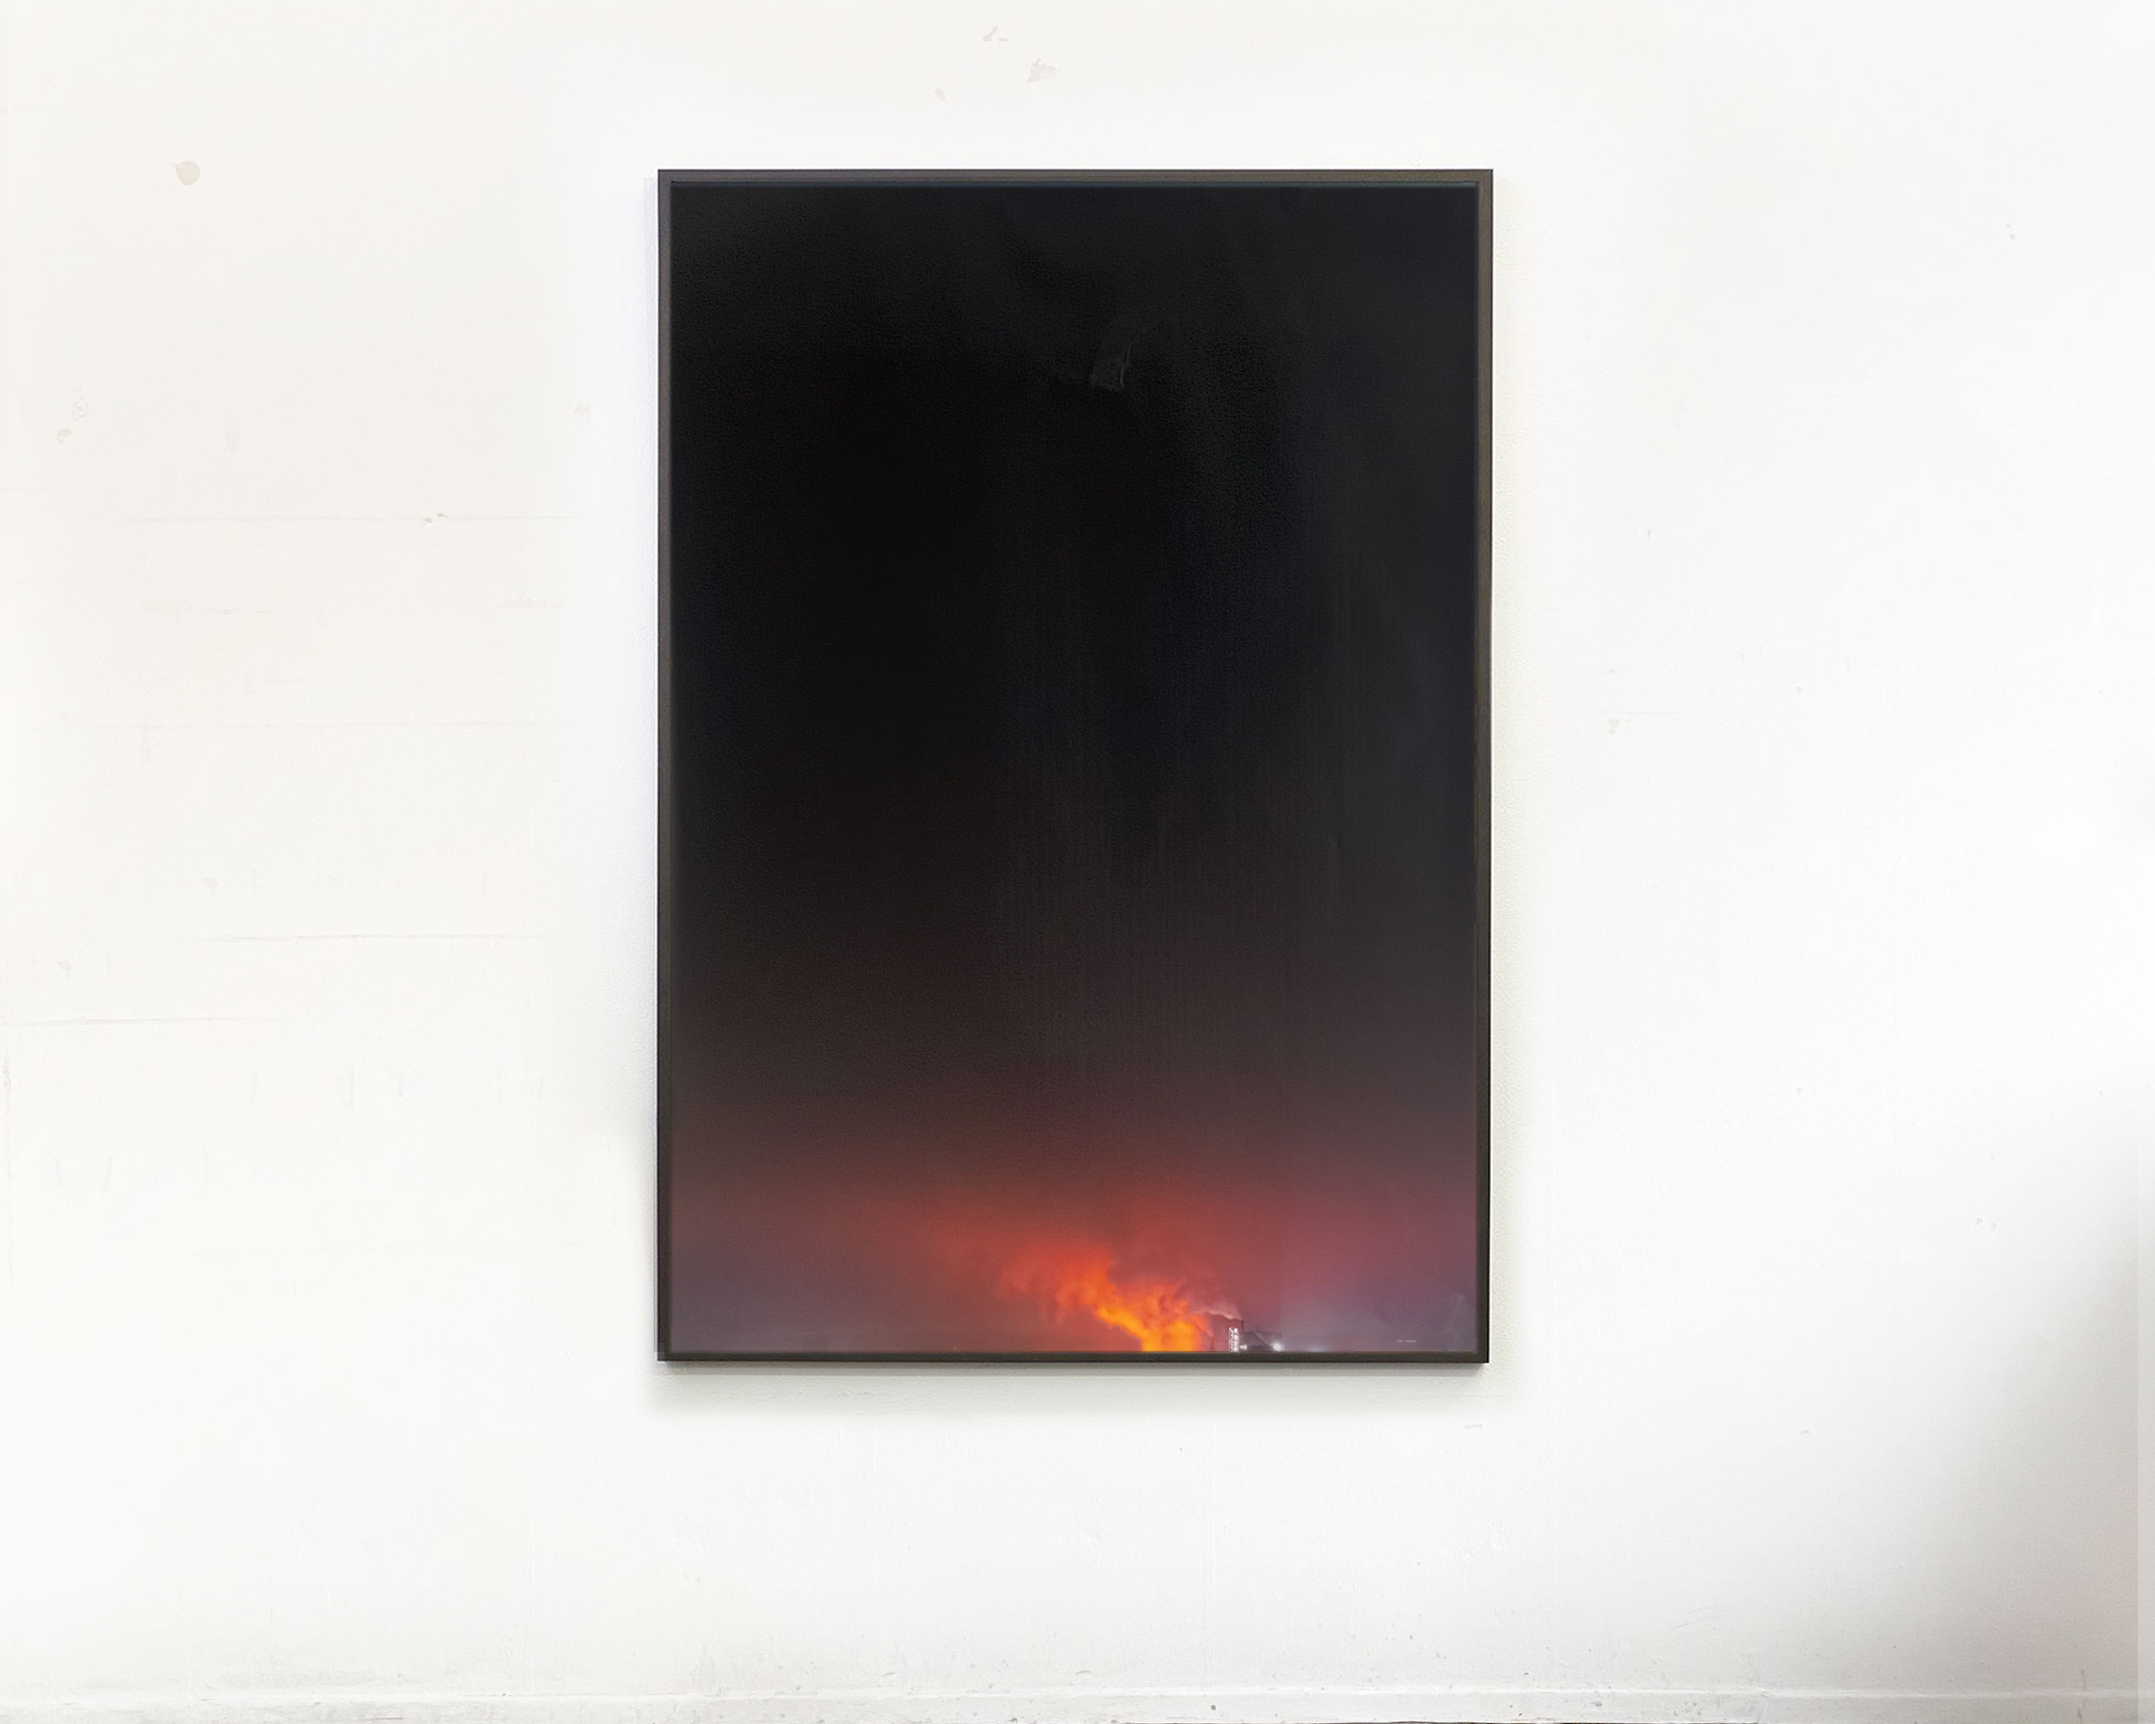
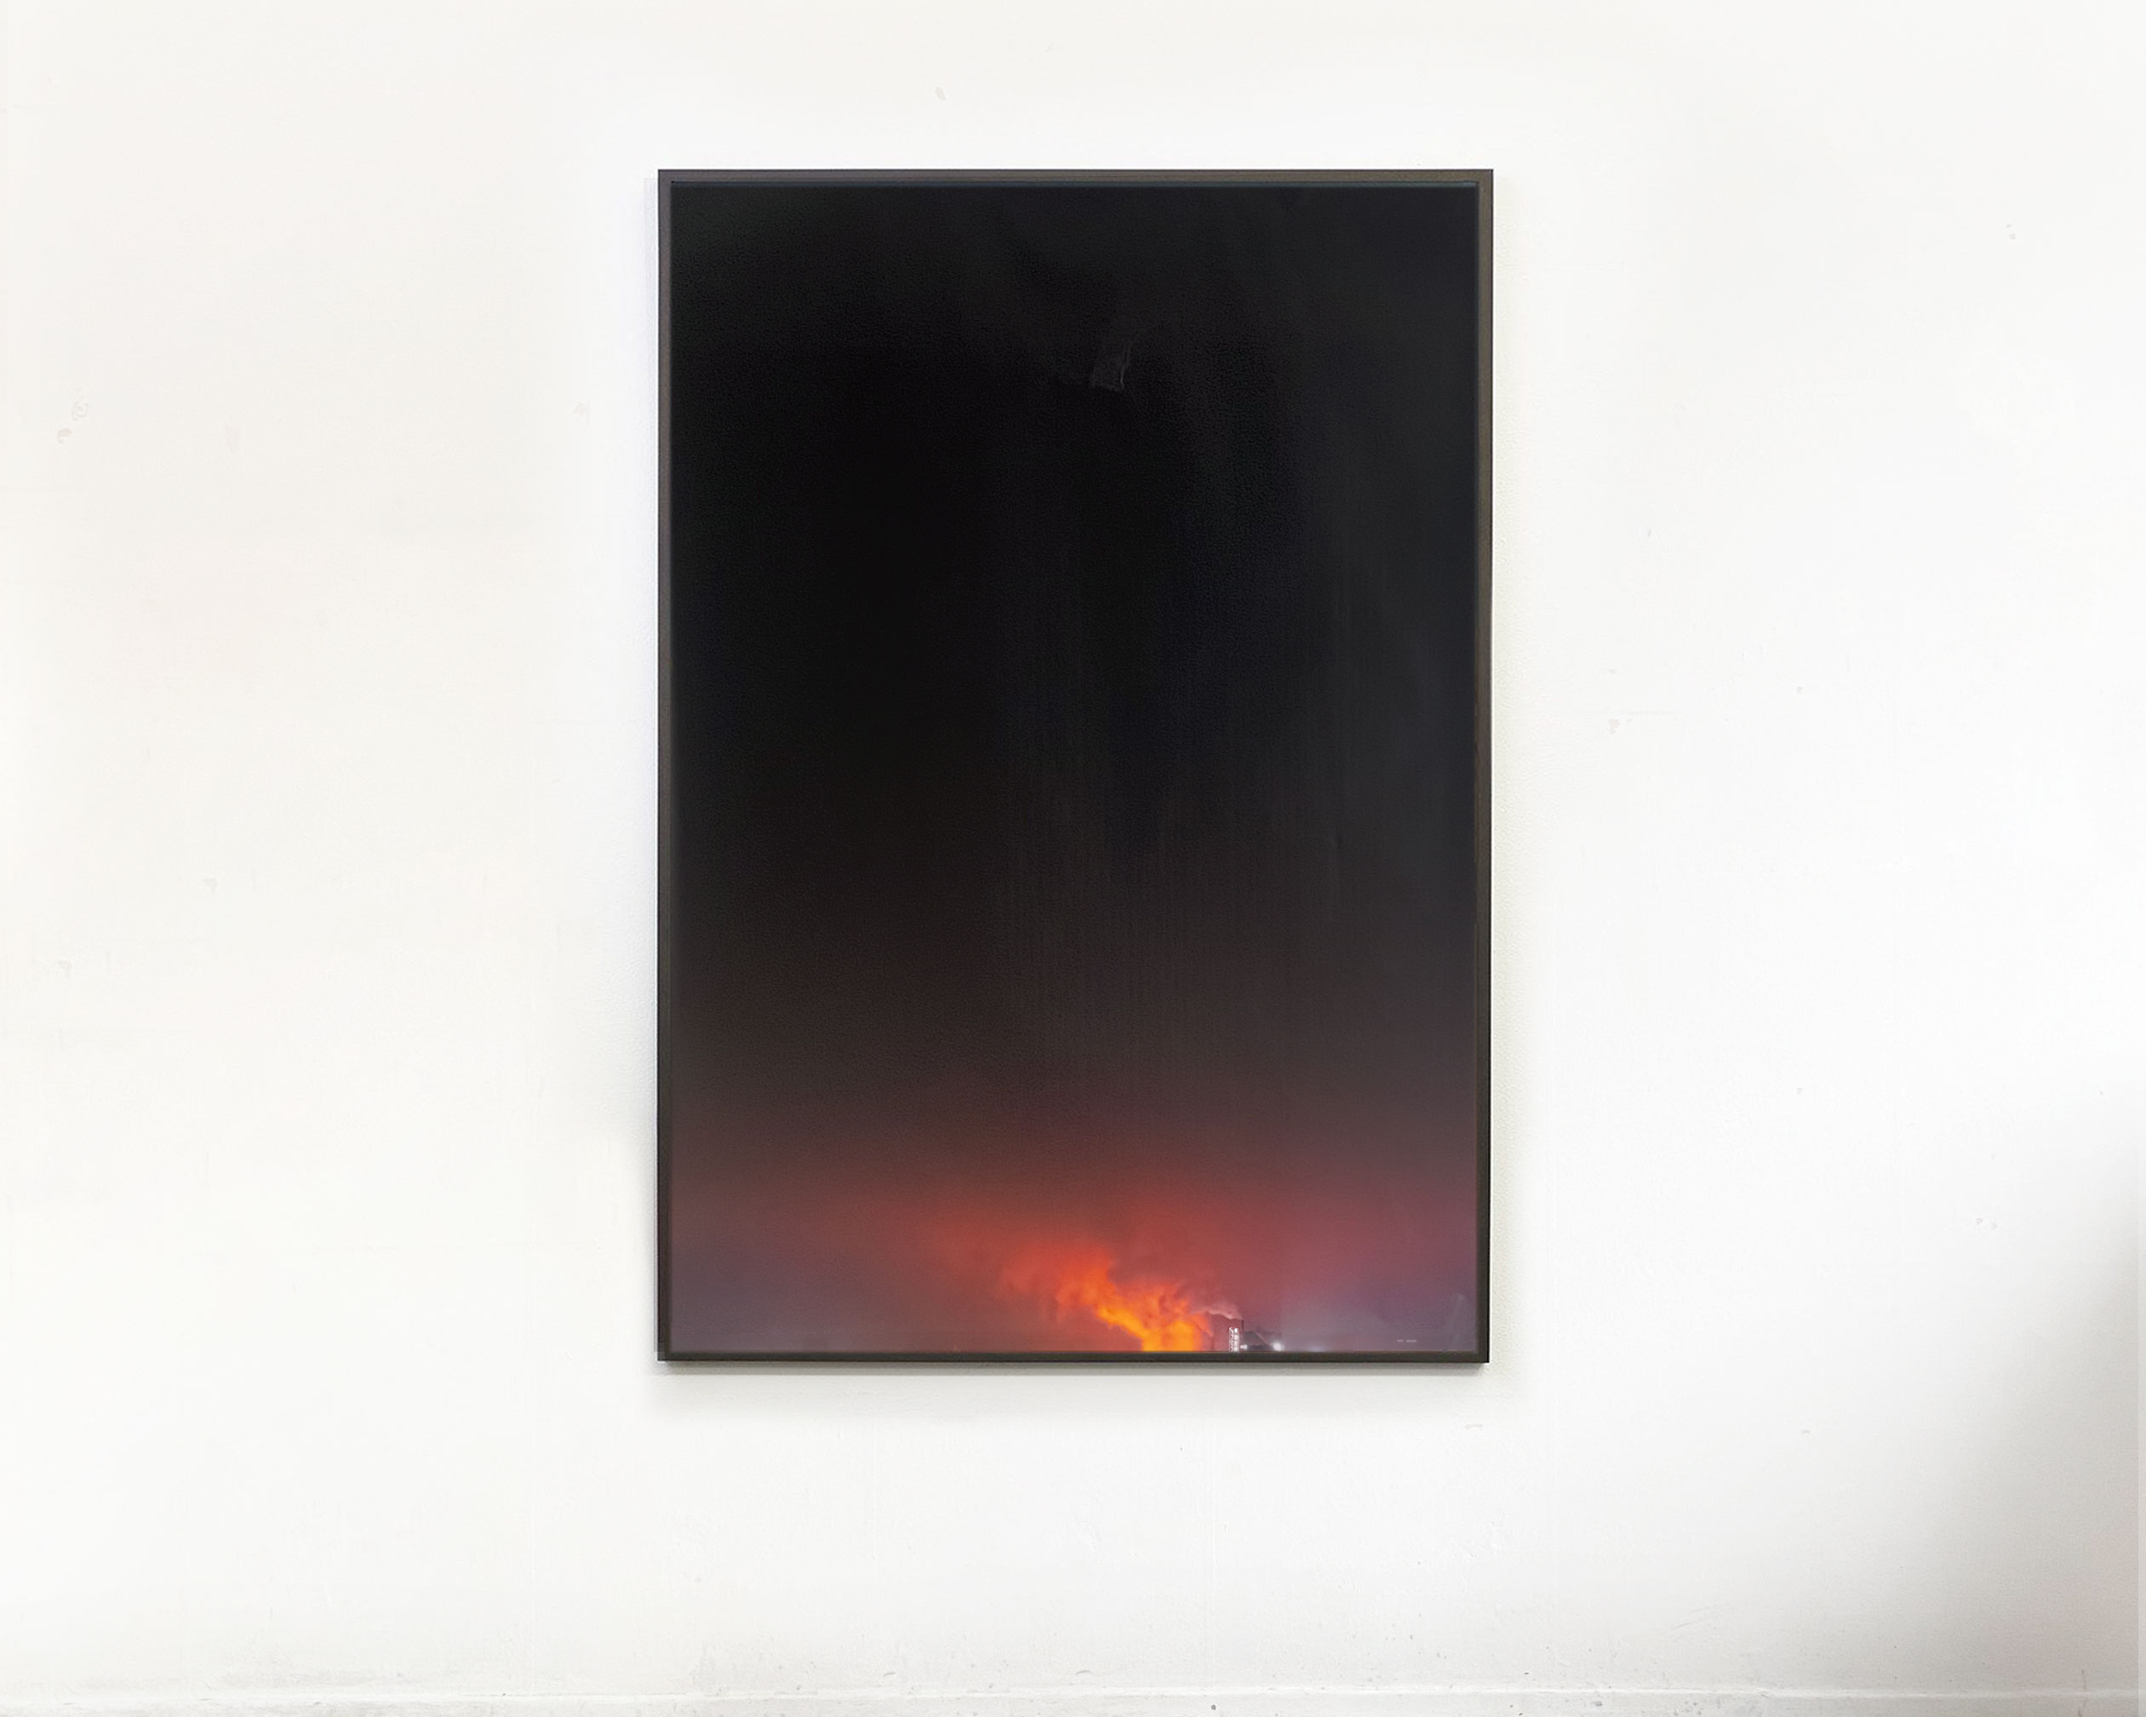
corrections

diff --git a/aurora-fr.html b/aurora-fr.html
@@ -66,8 +66,11 @@ img {
 <br></br>
 <br></br>
 
-<br> <img src="2022_aurora_framed.jpg" alt="Aurora" width="850" height="1134"> </br> 
-
+<br> <img src="2022_aurora_framed.jpg" alt="Aurora" width="750" height="1000"> </br> 
+ <p><i>Aurora 2</i>,<i> Aurora</i>,<i> Aurora 3</i>, <i>Aurora 4</i>, 2022</p>
+    <p>Impressions pigmentaires <p/>
+    <p>175 x 125 cm</p>
+    <p>Vue d'atelier</p>
 <br></br>
 <br></br><br></br>
 <br></br>

diff --git a/aurora-en.html b/aurora-en.html
@@ -90,7 +90,12 @@ img {
 <br></br>
 <br></br>
 
-<br> <img src="2022_aurora_framed.jpg" alt="Aurora" width="850" height="1134"> </br> 
+<br> <img src="2022_aurora_framed.jpg" alt="Aurora" width="750" height="1000"> </br> 
+<br></br>
+  <i>Aurora</i>, 2022</p>
+    <p>Archival pigment prints<p/>
+    <p>175 x 125 cm</p>
+    <p>Studio view</p>
 
 <br></br>
 <br></br><br></br>
